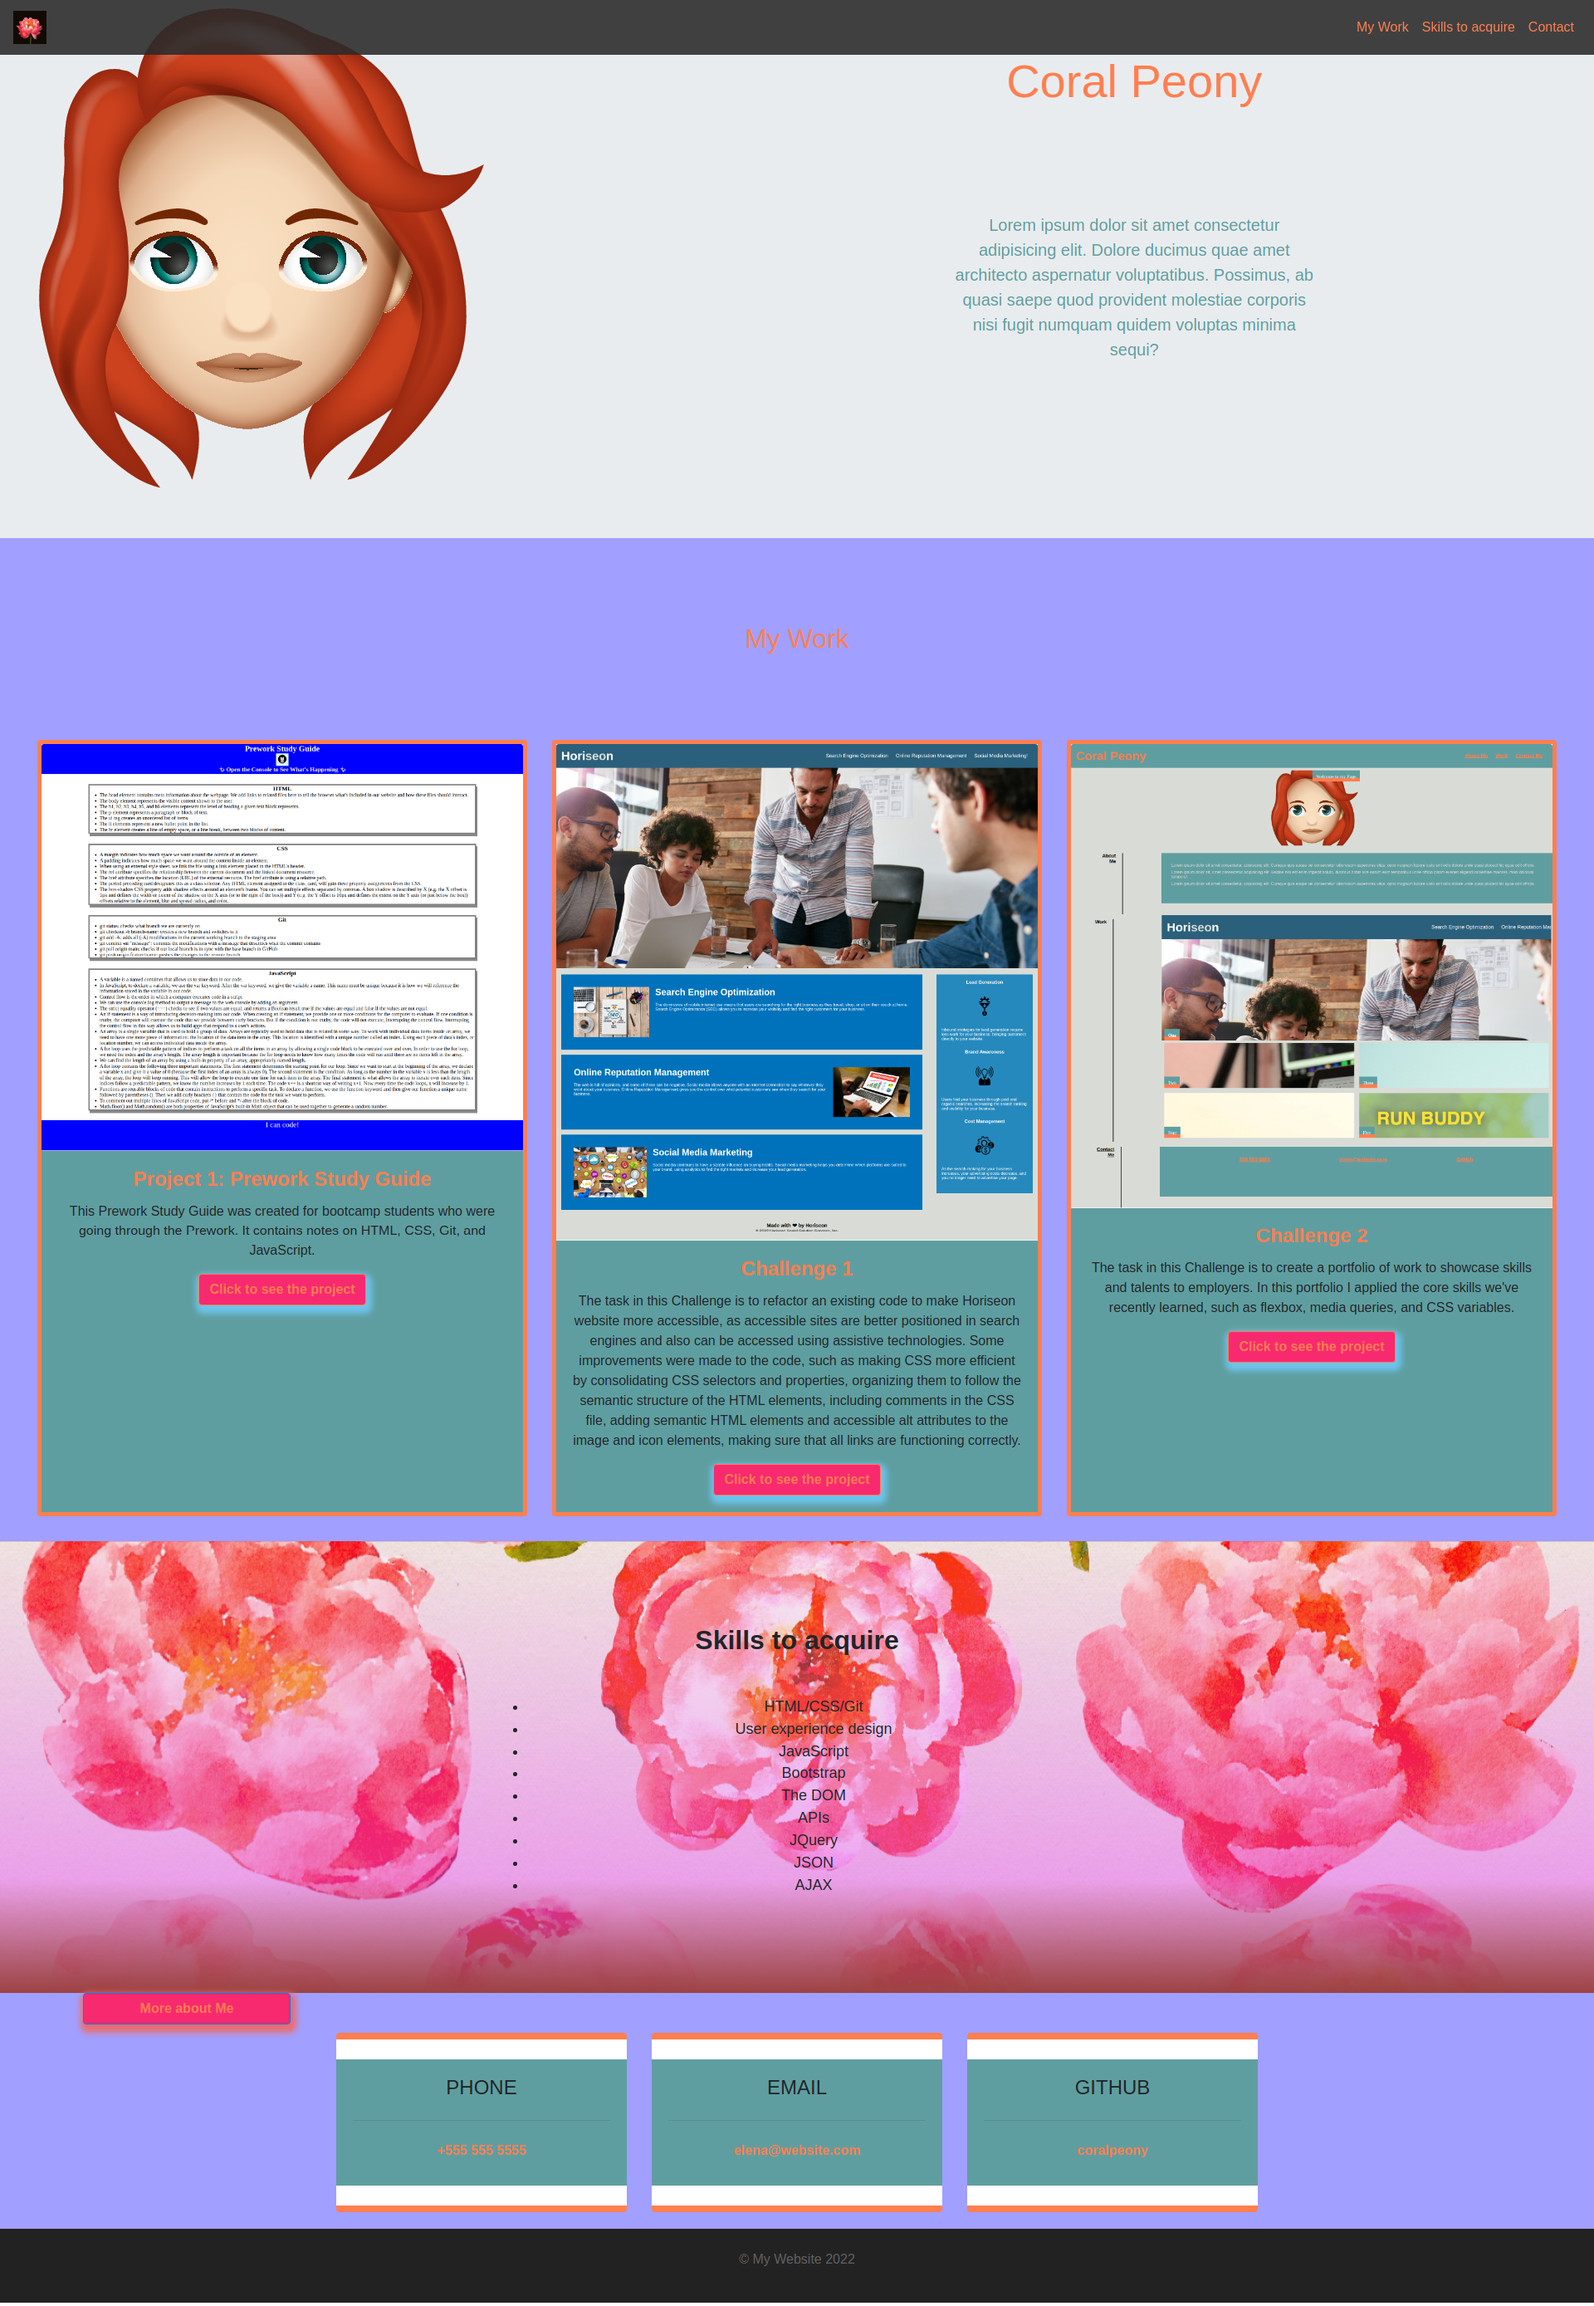
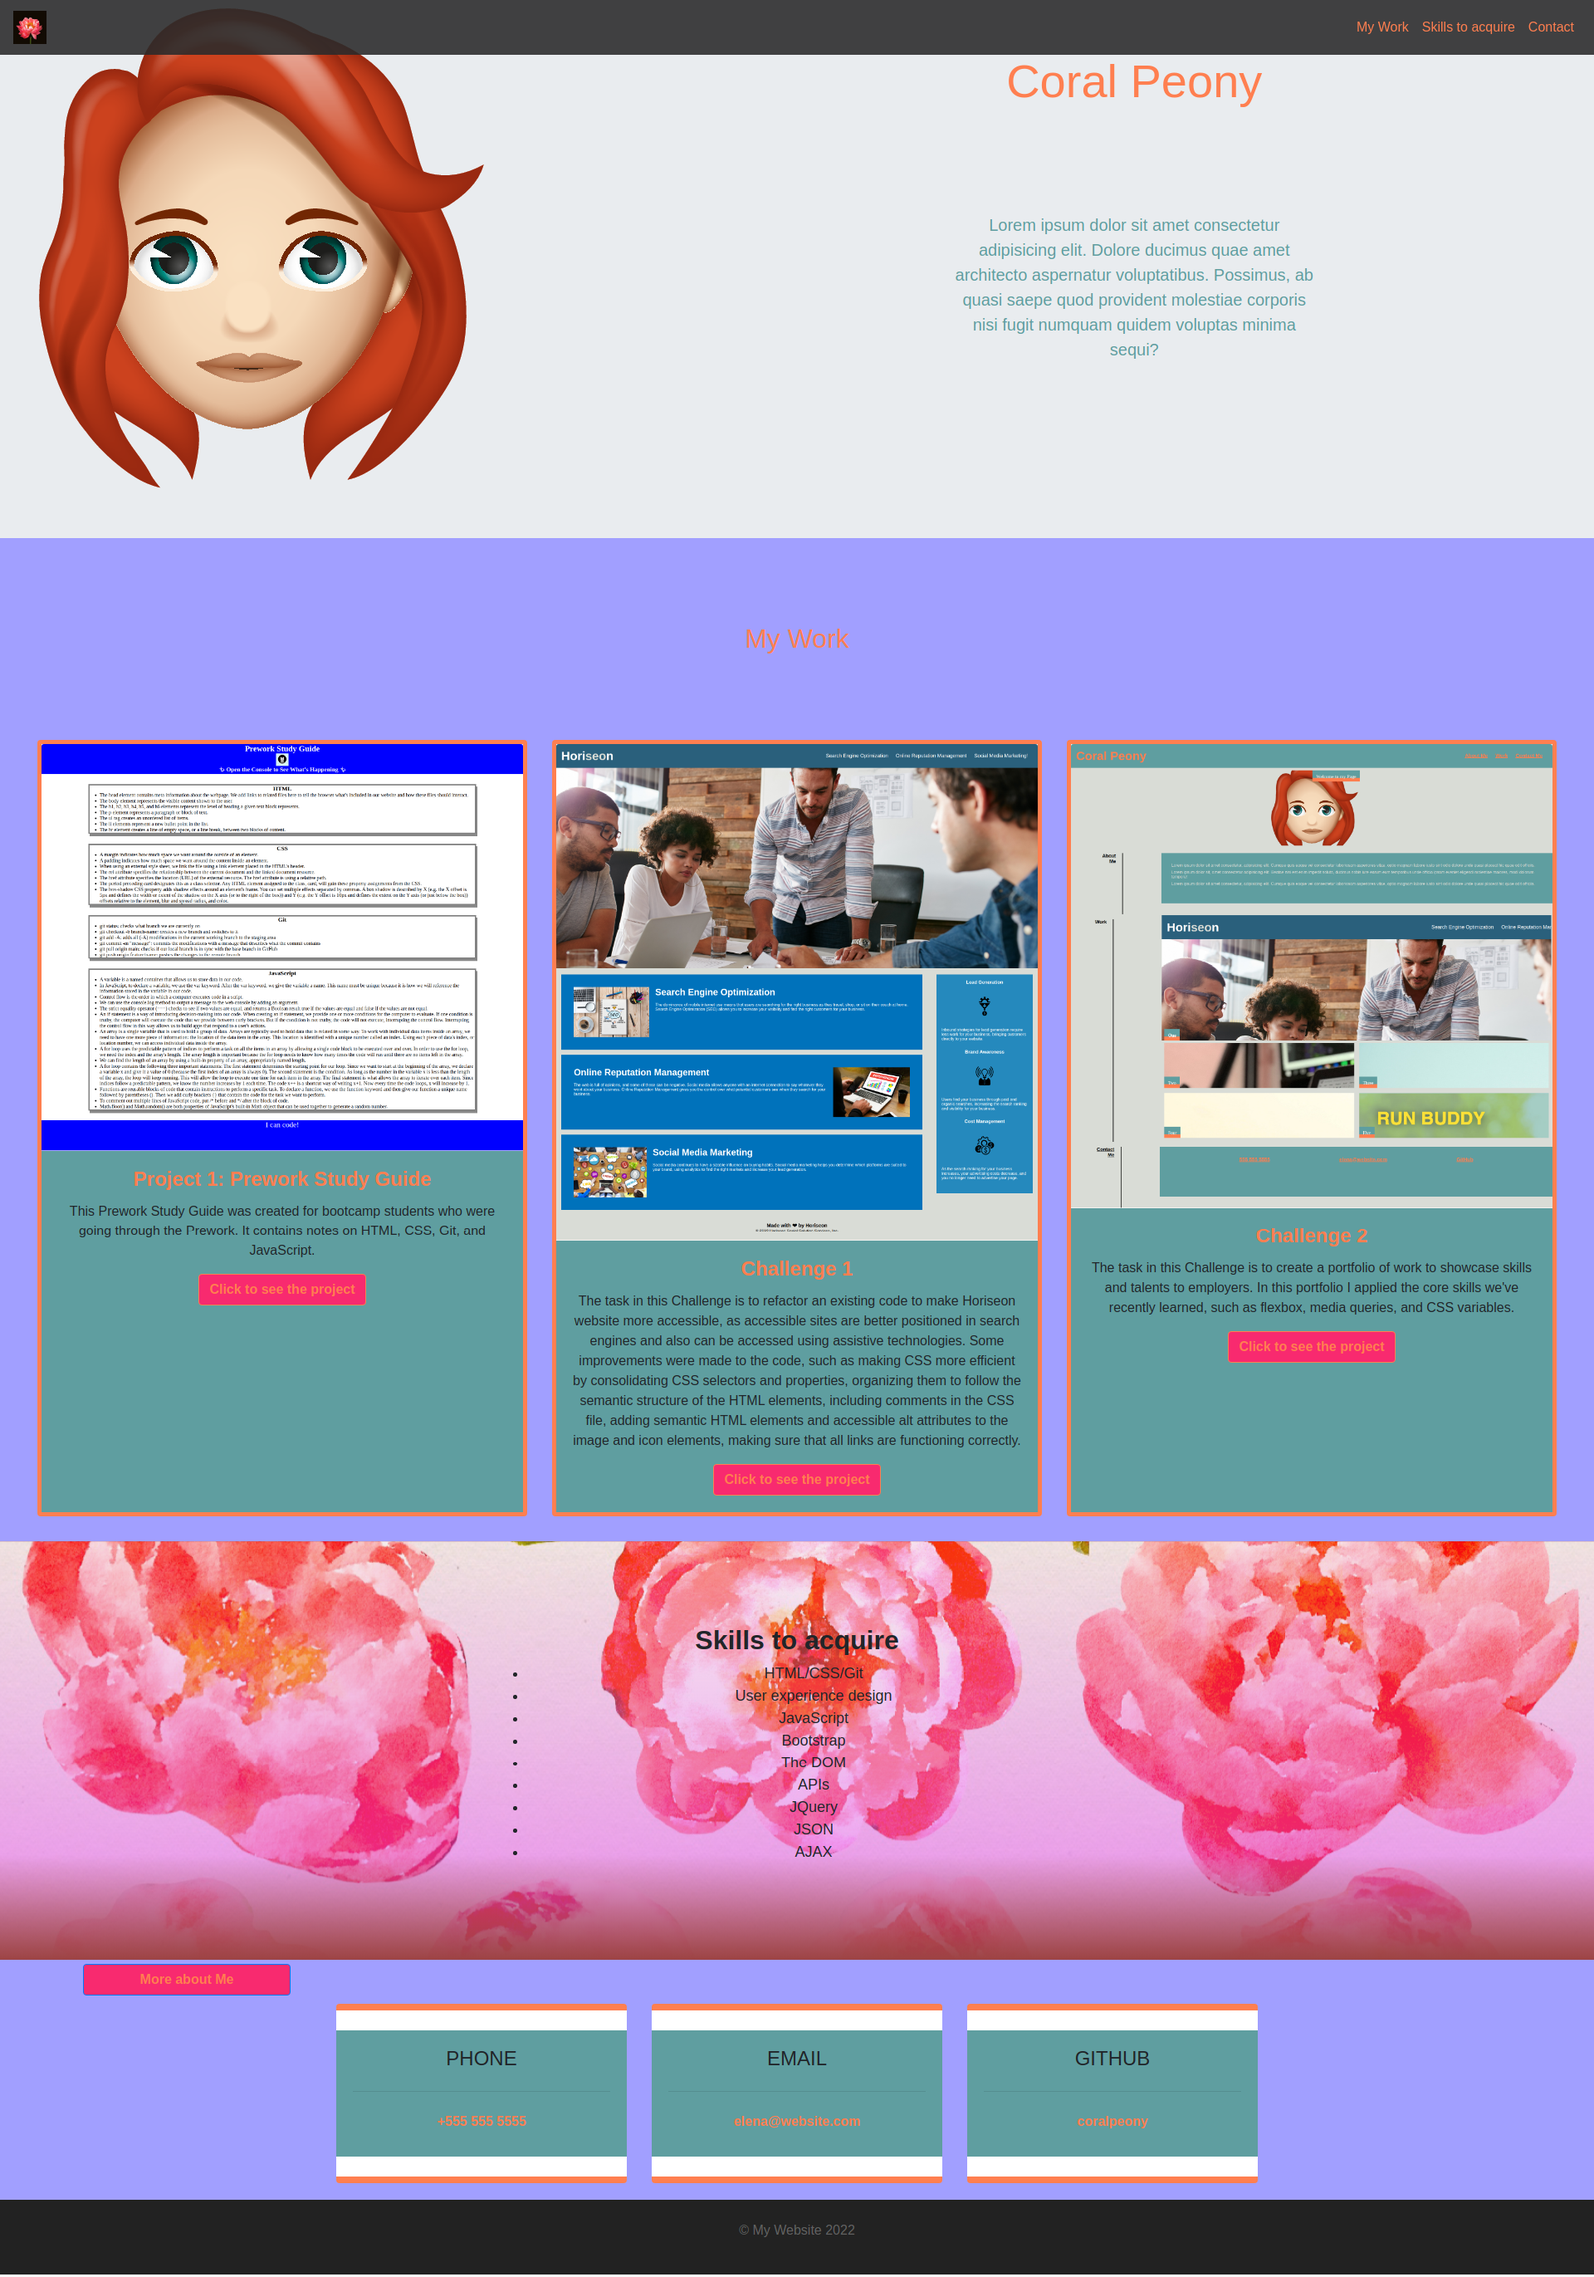
updated README file and screenshot image

diff --git a/css/style.css b/css/style.css
@@ -11,6 +11,18 @@ a:hover {
   background-color: aquamarine;
 }
 
+
+
+.btn:hover {
+
+  box-shadow: 2px 5px 7px 5px  rgb(109, 196, 236) !important;
+}
+
+.buttonMove:hover {
+  box-shadow: 2px 5px 7px 5px  rgb(236, 109, 109) !important;
+
+}
+
 /* Navigation bar */
 
 /* .customNav code is based on the 02-STU-Custom-Webpage exercise */
@@ -129,24 +141,19 @@ a:hover {
 
 .buttonMove {
   margin-left: 100px;
- 
+  width: 250px;
+  align-content: center;margin-top: 5px;
 }
 
 .btn {
   color: var(--font);
   font-weight: bolder;
   background-color: rgb(248, 42, 111);
-  box-shadow: 2px 5px 7px 5px  rgb(109, 196, 236) !important;
+  
 }
 
-.buttonMove {
-  width: 250px;
-  align-content: center;
-  box-shadow: 2px 5px 7px 5px  rgb(236, 109, 109) !important;
 
-}
-
- .modal-header h3 {
+.modal-header h3 {
   font-size: xx-large;
   text-indent: 120px;
   color: var(--font);
